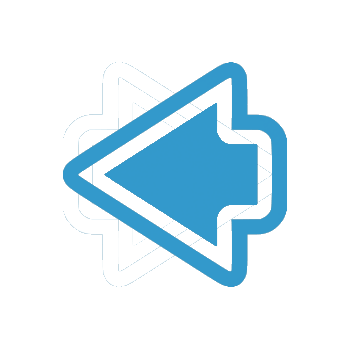
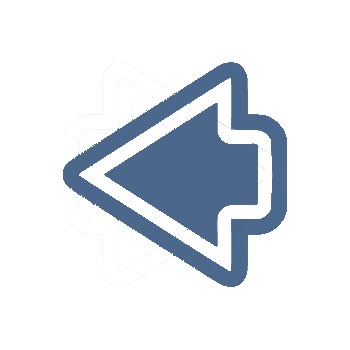
update UI table

Changed region(s): [[0.1714, 0.1714, 0.8286, 0.8286]]

diff --git a/MotoSoft/Pages/Lot/LotView.xaml b/MotoSoft/Pages/Lot/LotView.xaml
@@ -21,8 +21,8 @@
                                                 UpdateSourceTrigger=PropertyChanged}"
                                  x:Name="textSource" 
                                  Background="Transparent" 
-                                 Foreground="#FF3399CC"
-                                 BorderBrush="#FF3399CC"
+                                 Foreground="#FF4B688C"
+                                 BorderBrush="#FF4B688C"
                                  FontFamily="Roboto Mono"
                                  Panel.ZIndex="2" HorizontalContentAlignment="Center" VerticalContentAlignment="Center" />
                             <TextBox Text="{TemplateBinding Tag}" HorizontalContentAlignment="Center" FontFamily="Roboto Mono" VerticalContentAlignment="Center" Background="Transparent">
@@ -74,16 +74,16 @@
                     <ColumnDefinition/>
                     <ColumnDefinition/>
                 </Grid.ColumnDefinitions>
-                <Button Content="Save" Command="{Binding SaveProduct}" VerticalAlignment="Center" BorderBrush="#FF3399CC" Foreground="#FF3399CC" Background="Transparent" HorizontalAlignment="Center" Width="100" FontFamily="Roboto Mono" FontSize="14"/>
-                <Button Content="Cancel" Command="{Binding Cancel}" Margin="0" VerticalAlignment="Center" BorderBrush="#FF3399CC" Foreground="#FF3399CC" Background="Transparent" HorizontalAlignment="Center" Width="100" FontFamily="Roboto Mono" FontSize="14" Grid.Column="1"/>
+                <Button Content="Save" Command="{Binding SaveProduct}" VerticalAlignment="Center" BorderBrush="#FF4B688C" Foreground="#FF4B688C" Background="Transparent" HorizontalAlignment="Center" Width="100" FontFamily="Roboto Mono" FontSize="14"/>
+                <Button Content="Cancel" Command="{Binding Cancel}" Margin="0" VerticalAlignment="Center" BorderBrush="#FF4B688C" Foreground="#FF4B688C" Background="Transparent" HorizontalAlignment="Center" Width="100" FontFamily="Roboto Mono" FontSize="14" Grid.Column="1"/>
             </Grid>
             <TextBox Style="{StaticResource placeHolder}" Tag="Enter Lot Number ID" HorizontalAlignment="Center" Text="{Binding Product.Lot}" Height="23" Margin="0" Grid.Row="1" TextWrapping="Wrap" VerticalAlignment="Center" Width="120"  MaxLines="1" MaxLength="50"/>
             <TextBox Style="{StaticResource placeHolder}" Tag="Enter Make" HorizontalAlignment="Center"  Text="{Binding Product.Make}" Height="24" Margin="0" Grid.Row="2" TextWrapping="Wrap" VerticalAlignment="Center" Width="120"  MaxLines="1" MaxLength="50"/>
             <TextBox Style="{StaticResource placeHolder}" Tag="Enter Type" HorizontalAlignment="Center" Text="{Binding Product.Type}" Height="24" Margin="0" Grid.Row="3" TextWrapping="Wrap" VerticalAlignment="Center" Width="120"  MaxLines="1" MaxLength="50"/>
             <TextBox Style="{StaticResource placeHolder}" Tag="Enter Model" HorizontalAlignment="Center" Text="{Binding Product.Model}" Height="24" Margin="0" Grid.Row="4" TextWrapping="Wrap" VerticalAlignment="Center" Width="120"  MaxLines="1" MaxLength="50"/>
             <TextBox Style="{StaticResource placeHolder}" Tag="Enter Notes" HorizontalAlignment="Center" Text="{Binding Product.Notes}" Height="24" Margin="0" Grid.Row="5" TextWrapping="Wrap" VerticalAlignment="Center" Width="120"  MaxLines="1" MaxLength="150"/>
-            <Button Content="Enter Title" BorderBrush="#FF3399CC" Background="Transparent" Foreground="#FF4B688C" HorizontalAlignment="Center" Command="{Binding GetTitle}" Height="24" Margin="0" Grid.Row="6" VerticalAlignment="Center" Width="120" />
-            <Button Content="Enter Bill Of Sale" BorderBrush="#FF3399CC" Background="Transparent" Foreground="#FF4B688C" HorizontalAlignment="Center" Command="{Binding GetBillOfSale}" Height="24" Margin="0" Grid.Row="7" VerticalAlignment="Center" Width="120"/>
+            <Button Content="Enter Title" BorderBrush="#FF4B688C" Background="Transparent" Foreground="#FF4B688C" HorizontalAlignment="Center" Command="{Binding GetTitle}" Height="24" Margin="0" Grid.Row="6" VerticalAlignment="Center" Width="120" />
+            <Button Content="Enter Bill Of Sale" BorderBrush="#FF4B688C" Background="Transparent" Foreground="#FF4B688C" HorizontalAlignment="Center" Command="{Binding GetBillOfSale}" Height="24" Margin="0" Grid.Row="7" VerticalAlignment="Center" Width="120"/>
             <TextBox Style="{StaticResource placeHolder}" Tag="Enter Cost" HorizontalAlignment="Center" Text="{Binding Product.Cost}" Height="24" Margin="0" Grid.Row="8" TextWrapping="Wrap" VerticalAlignment="Center" Width="120"  MaxLines="1" MaxLength="50"/>
             <TextBox Style="{StaticResource placeHolder}" Tag="Enter Year" HorizontalAlignment="Center" Text="{Binding Product.Year}" Height="24" Margin="0" Grid.Row="9" TextWrapping="Wrap" VerticalAlignment="Center" Width="120"  MaxLines="1" MaxLength="50"/>
             <TextBox Style="{StaticResource placeHolder}" Tag="Enter Mileage" HorizontalAlignment="Center" Text="{Binding Product.Mileage}" Height="24" Margin="0" Grid.Row="10" TextWrapping="Wrap" VerticalAlignment="Center" Width="120"  MaxLines="1" MaxLength="50"/>

diff --git a/MotoSoft/Frameworks/Components/Table/Table.xaml b/MotoSoft/Frameworks/Components/Table/Table.xaml
@@ -12,6 +12,8 @@
 
         <Style TargetType="DataGrid">
             <Setter Property="Background" Value="#1c324a" />
+            <Setter Property="VerticalScrollBarVisibility" Value="Disabled"/>
+            <Setter Property="HorizontalScrollBarVisibility" Value="Disabled"/>
             <Setter Property="BorderBrush" Value="#273e5b"/>
             <Setter Property="IsReadOnly" Value="True"/>
             <Setter Property="ColumnWidth" Value="SizeToHeader"/>
@@ -93,7 +95,7 @@
         </Grid.RowDefinitions>
         <DataGrid HorizontalScrollBarVisibility="Hidden" x:Name="dataGrid" ItemsSource="{Binding Items, UpdateSourceTrigger=PropertyChanged, Mode=TwoWay}" GridLinesVisibility="None" CanUserReorderColumns="False" CanUserAddRows="False" HorizontalContentAlignment="Center" VerticalContentAlignment="Center" ColumnWidth="*" FontSize="14" FontFamily="Roboto Mono" Margin="0,60,0,0" AutoGenerateColumns="False">
         </DataGrid>
-        <Grid MaxHeight="50" VerticalAlignment="Top" Height="60">
+        <Grid MaxHeight="60" VerticalAlignment="Top" Height="60" Background="#1f3650">
             <Button Content="" MaxWidth="50" MaxHeight="40" HorizontalAlignment="Left" MinWidth="50" MinHeight="40" VerticalAlignment="Center" Command="{Binding BackPage}" BorderBrush="{x:Null}">
                 <Button.Background>
                     <ImageBrush ImageSource="/MotoSoft;component/Assets/images/Left.png"/>
@@ -104,21 +106,21 @@
                     <ImageBrush ImageSource="/MotoSoft;component/Assets/images/Right.png"/>
                 </Button.Background>
             </Button>
-            <Grid HorizontalAlignment="Center" Margin="80,0,100,-10" Width="560" MinWidth="55" MinHeight="60">
+            <Grid HorizontalAlignment="Center" Margin="0" Width="560" MinWidth="55" MinHeight="60">
                 <Grid.RowDefinitions>
                     <RowDefinition Height="0*"/>
                     <RowDefinition/>
-                    <RowDefinition Height="2*"/>
+                    <RowDefinition/>
                 </Grid.RowDefinitions>
                 <Grid.ColumnDefinitions>
                     <ColumnDefinition Width="69*"/>
                     <ColumnDefinition Width="40*"/>
                     <ColumnDefinition Width="59*"/>
                 </Grid.ColumnDefinitions>
-                <TextBox TextWrapping="Wrap" HorizontalContentAlignment="Center" VerticalContentAlignment="Center" Background="{x:Null}" Foreground="#FF3399CC" BorderBrush="#FF3399CC" BorderThickness="1" FontFamily="Roboto Mono" FontSize="14" Grid.Row="2" Text="{Binding PageIDFromTextBox, Mode=TwoWay, UpdateSourceTrigger=PropertyChanged}" Grid.Column="1" MinHeight="25" Margin="0,5" Height="25"/>
-                <Label Content="{Binding PageIDFromLabel}" Foreground="#FF3399CC" HorizontalContentAlignment="Center" VerticalContentAlignment="Center" FontFamily="Roboto Mono" Grid.Column="1" FontSize="14" Grid.RowSpan="2" MinHeight="25"/>
-                <Label Content="Enter number page:" Grid.Row="2" Margin="0,0,0,5" Foreground="#FF3399CC" Background="{x:Null}" HorizontalContentAlignment="Center" VerticalContentAlignment="Center" FontFamily="Roboto Mono" FontSize="14" MinHeight="27" Padding="0,5"/>
-                <Button Content="Refresh" Command="{Binding Refresh}" Grid.Column="2" HorizontalAlignment="Center" Margin="0,5" Grid.Row="2" VerticalAlignment="Center" Background="#FF1F3650" BorderBrush="#FF2199CC" Foreground="#FF2199CC" FontFamily="Roboto Mono" FontSize="14" Width="80" MinHeight="21" Height="25"/>
+                <TextBox TextWrapping="Wrap" HorizontalContentAlignment="Center" VerticalContentAlignment="Center" Background="{x:Null}" Foreground="#4b688c" BorderBrush="#4b688c" BorderThickness="1" FontFamily="Roboto Mono" FontSize="14" Grid.Row="2" Text="{Binding PageIDFromTextBox, Mode=TwoWay, UpdateSourceTrigger=PropertyChanged}" Grid.Column="1" MinHeight="25" Margin="0"/>
+                <Label Content="{Binding PageIDFromLabel}" Foreground="#4b688c" HorizontalContentAlignment="Center" VerticalContentAlignment="Center" FontFamily="Roboto Mono" Grid.Column="1" FontSize="14" Grid.RowSpan="2"/>
+                <Label Content="Enter number page:" Grid.Row="2" Margin="0,0,0,3" Foreground="#4b688c" Background="{x:Null}" HorizontalContentAlignment="Center" VerticalContentAlignment="Center" FontFamily="Roboto Mono" FontSize="14" MinHeight="27" Padding="0,5"/>
+                <Button Content="Refresh" Command="{Binding Refresh}" Grid.Column="2" HorizontalAlignment="Center" Margin="59,2,58,2" Grid.Row="2" VerticalAlignment="Center" Background="#FF1F3650" BorderBrush="#4b688c" Foreground="#4b688c" FontFamily="Roboto Mono" FontSize="14" Width="80" MinHeight="21" Height="26"/>
             </Grid>
         </Grid>
     </Grid>
